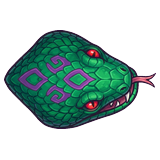
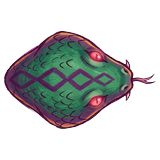
art: yeni sanat yonu ile yenilenen gorseller

diff --git a/sw.js b/sw.js
@@ -1,5 +1,5 @@
 // Çevrimdışı çalışma: kod ve sayfa önce ağdan (güncel sürüm), görseller önce önbellekten.
-const CACHE = 'hexling-v160';
+const CACHE = 'hexling-v161';
 const CORE = ['index.html', 'manifest.webmanifest', 'dist/main.js', 'dist/minis.js', 'dist/game.js', 'dist/data.js', 'dist/audio.js', 'dist/settings.js', 'dist/i18n.js', 'dist/scenery.js', 'dist/version.js', 'dist/billing.js', 'dist/ads.js', 'dist/fight.js', 'dist/hof.js', 'dist/house.js', 'dist/meta.js', 'dist/quests.js', 'dist/story.js', 'dist/tiger.js', 'dist/notify.js', 'dist/mine.js', 'dist/mine3d.js', 'vendor/three.min.js', 'assets/manifest.json', 'assets/title_bg.jpg', 'assets/arena_bg.jpg', 'icons/icon-192.png'];
 
 self.addEventListener('install', (e) => {
